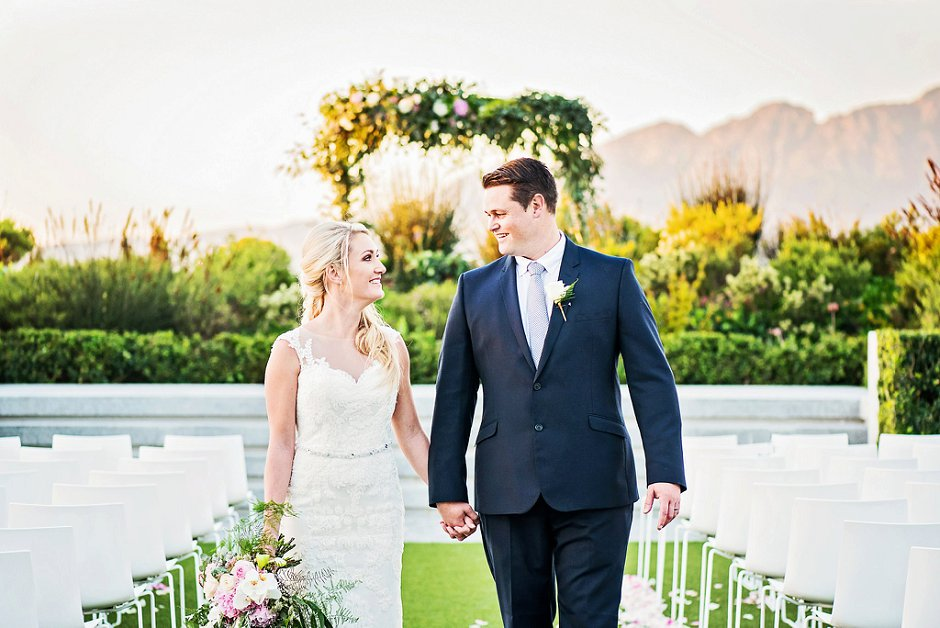
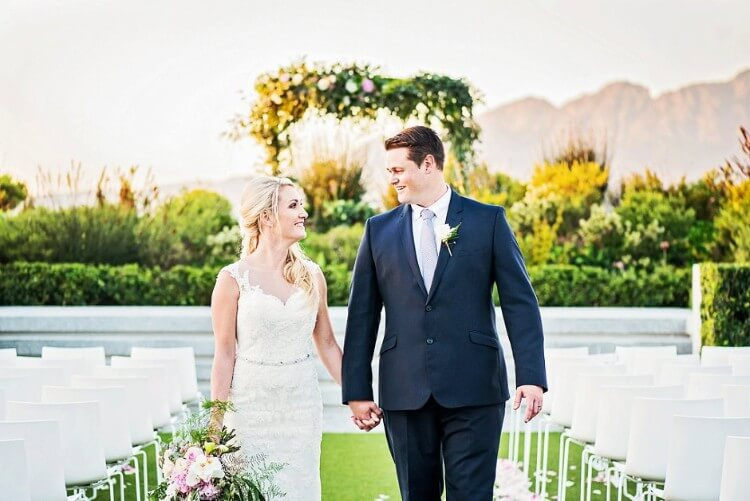
Optimise images

diff --git a/src/app/layouts/Home/FeaturedOnSection/features.js b/src/app/layouts/Home/FeaturedOnSection/features.js
@@ -1,7 +1,7 @@
 const testimonials = [
   {
     image: {
-      src: '/static/images/featured/featured-hochzeitsguide.png',
+      src: '/static/images/featured/featured-hochzeitsguide.jpg',
       alt: 'Huchzeitsguide Blog',
     },
     href:
@@ -9,7 +9,7 @@ const testimonials = [
   },
   {
     image: {
-      src: '/static/images/featured/featured-confetti-daydreams.png',
+      src: '/static/images/featured/featured-confetti-daydreams.jpg',
       alt: 'Confetti Daydreams',
     },
     href: 'http://www.confettidaydreams.com/burgundy-red-navy-blue-gold-wedding/',
@@ -23,7 +23,7 @@ const testimonials = [
   },
   {
     image: {
-      src: '/static/images/featured/featured-confetti.png',
+      src: '/static/images/featured/featured-confetti.jpg',
       alt: 'Confetti',
     },
     href: 'https://www.confetti.co.za/listing/astrid-bradley-photography',
@@ -38,14 +38,14 @@ const testimonials = [
   },
   {
     image: {
-      src: '/static/images/featured/featured-bloved.png',
+      src: '/static/images/featured/featured-bloved.jpg',
       alt: 'Be Loved',
     },
     href: 'http://blovedblog.com/weddings/vibrant-south-african-wedding-inspiration/',
   },
   {
     image: {
-      src: '/static/images/featured/featured-smashing-the-glass.png',
+      src: '/static/images/featured/featured-smashing-the-glass.jpg',
       alt: 'Smashing The Glass',
     },
     href:

diff --git a/src/app/layouts/Home/TestimonialsSection/testimonials.js b/src/app/layouts/Home/TestimonialsSection/testimonials.js
@@ -9,7 +9,7 @@ const testimonials = [
   },
   {
     image: {
-      src: '/static/images/testimonials/testimonial-y.jpeg',
+      src: '/static/images/testimonials/testimonial-y.jpg',
       alt: 'Y',
     },
     name: 'Y',
